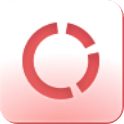
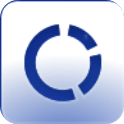
fix(*):修改了首页4个图标

diff --git a/cmb/pages/index/index.vue b/cmb/pages/index/index.vue
@@ -93,19 +93,19 @@
 				opacity: 1,
 				cateList: [{
 					name: '朝朝宝',
-					icon: '/static/home/chaoChaoBao1.png',
+					icon: '/static/home/chaoChaoBao.png',
 					path: '/pages/chaoChaoBao/chaoChaoBao'
 				}, {
 					name: '借钱',
-					icon: '/static/home/borrowMoney1.png',
+					icon: '/static/home/borrowMoney.png',
 					path: '/pages/borrowMoney/borrowMoney'
 				}, {
 					name: '转账',
-					icon: '/static/home/transferAccounts1.png',
+					icon: '/static/home/transferAccounts.png',
 					path: '/pages/transfer/index/index'
 				}, {
 					name: '账户总览',
-					icon: '/static/home/account1.png',
+					icon: '/static/home/account.png',
 					path: '/pages/account/account/account'
 				}],
 				projects: [{
